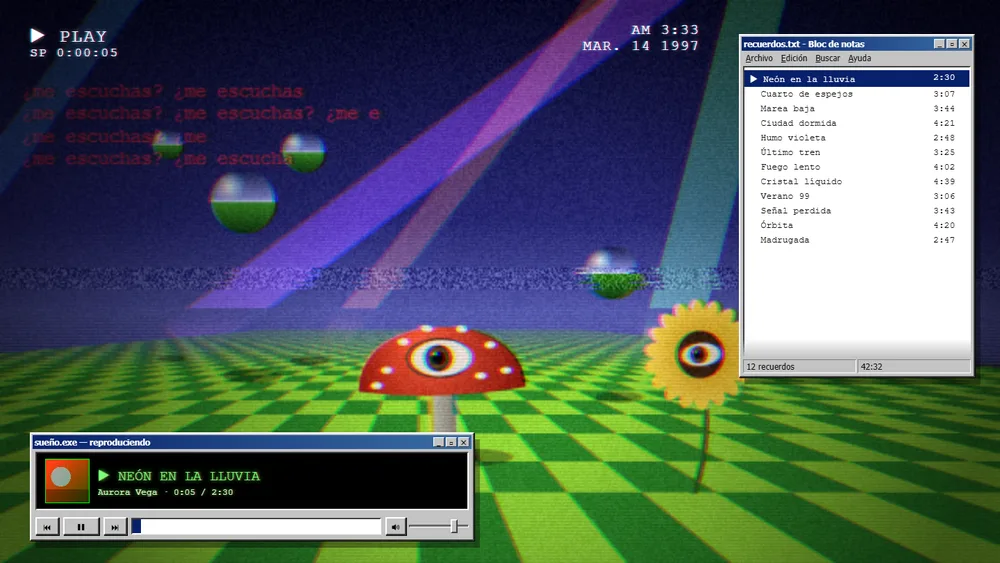
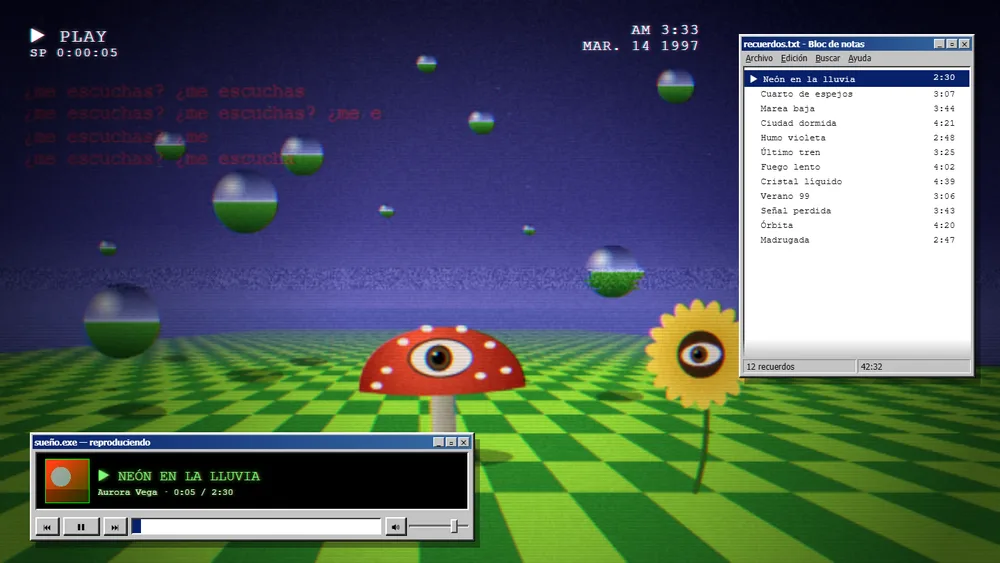
Dreamcore: mas esferas de cromo, estrellas y resplandor en vez de los haces de luz, VHS mas suave por defecto

diff --git a/web/dreamcore.html b/web/dreamcore.html
@@ -133,23 +133,25 @@ function esfera(x, y, r) {   // esfera de cromo que refleja cielo y pasto
   const b = g.createRadialGradient(x - r * .4, y - r * .45, 0, x - r * .4, y - r * .45, r * .5); b.addColorStop(0, "rgba(255,255,255,.9)"); b.addColorStop(1, "rgba(255,255,255,0)"); g.fillStyle = b; g.fillRect(x - r, y - r, r * 2, r * 2);
   g.restore();
 }
-const DESTELLOS = Array.from({ length: 4 }, (_, i) => ({ x0: [980, 900, 1100, 200][i], c: ["rgba(170,70,255,.55)", "rgba(255,120,40,.4)", "rgba(90,255,90,.5)", "rgba(70,200,255,.35)"][i], w: [70, 40, 80, 50][i], f: i * 1.7 }));
+const ESTRELLAS = Array.from({ length: 70 }, () => ({ x: rnd() * 1440, y: rnd() * HOR * .85, f: rnd() * 6, r: .8 + rnd() * 1.6 }));
+// esferas de cromo [x, y, radio, fase]: de las chicas y lejanas a las grandes y cercanas
+const ESFERAS = [[560, 300, 10, 4], [760, 330, 8, 5.2], [150, 360, 12, .7], [620, 90, 14, 2.6], [250, 210, 22, 2.1], [700, 170, 18, 3.9], [430, 230, 30, 1.3], [960, 130, 26, .2], [900, 380, 38, 3.4], [330, 300, 46, 0], [180, 450, 54, 4.6]];
 
 function escena(t, bajo) {
   g.save(); g.scale(S, S);
   const cielo = g.createLinearGradient(0, 0, 0, HOR); cielo.addColorStop(0, "#0a0b2e"); cielo.addColorStop(.7, "#2a2a7a"); cielo.addColorStop(1, "#5b5fb8");
   g.fillStyle = cielo; g.fillRect(0, 0, 1440, HOR);
-  // haces de luz de colores que barren el cielo
-  g.globalCompositeOperation = "lighter";
-  for (const d of DESTELLOS) { const a = Math.sin(t * .25 + d.f) * .35; g.save(); g.translate(d.x0, -40); g.rotate(.6 + a); g.fillStyle = d.c; g.globalAlpha = .55 + bajo * .45; g.fillRect(-d.w / 2, 0, d.w, 900); g.restore(); }
-  g.globalCompositeOperation = "source-over"; g.globalAlpha = 1;
+  // estrellas que titilan y un resplandor suave en el horizonte (en vez de los haces de luz)
+  for (const e of ESTRELLAS) { const a = .25 + .5 * Math.max(0, Math.sin(t * 1.2 + e.f)); g.fillStyle = `rgba(220,225,255,${a})`; g.fillRect(e.x, e.y, e.r, e.r); }
+  const res = g.createRadialGradient(620, HOR, 0, 620, HOR, 700); res.addColorStop(0, `rgba(190,170,255,${.22 + bajo * .1})`); res.addColorStop(1, "rgba(190,170,255,0)");
+  g.fillStyle = res; g.fillRect(0, 0, 1440, HOR);
   // suelo de damero que avanza hacia ti
   const Y = (z) => HOR + (810 - HOR) / z, X = (c, z) => 1440 * .42 + c * 150 / z, corre = (t * .5) % .8;
   for (let i = 40; i >= 0; i--) { const z0 = Math.max(1, 1 + i * .4 - corre), z1 = z0 + .4; if (z1 <= 1) continue;
     for (let c = -26; c < 26; c++) { g.fillStyle = (c + i) % 2 ? "#9be23a" : "#2f8f2a"; g.beginPath(); g.moveTo(X(c, z0), Y(z0)); g.lineTo(X(c + 1, z0), Y(z0)); g.lineTo(X(c + 1, z1), Y(z1)); g.lineTo(X(c, z1), Y(z1)); g.fill(); } }
   const bruma = g.createLinearGradient(0, HOR - 10, 0, HOR + 80); bruma.addColorStop(0, "rgba(91,95,184,1)"); bruma.addColorStop(1, "rgba(91,95,184,0)"); g.fillStyle = bruma; g.fillRect(0, HOR - 10, 1440, 90);
   // esferas que flotan
-  [[330, 300, 46, 0], [430, 230, 30, 1.3], [250, 210, 22, 2.1], [900, 380, 38, 3.4]].forEach(([x, y, r, f]) => esfera(x + Math.sin(t * .3 + f) * 20, y + Math.sin(t * .8 + f) * 14, r * (1 + bajo * .06)));
+  ESFERAS.forEach(([x, y, r, f]) => esfera(x + Math.sin(t * .3 + f) * r * .5, y + Math.sin(t * .8 + f) * r * .3, r * (1 + bajo * .05)));
   // hongo con ojo
   { const x = 640, y = 560, b = Math.sin(t * .9) * .03; g.save(); g.translate(x, y + 100); g.rotate(b); g.translate(-x, -y - 100);
     g.fillStyle = "rgba(0,0,0,.35)"; g.beginPath(); g.ellipse(x + 10, y + 100, 90, 14, 0, 0, 7); g.fill();
@@ -166,7 +168,7 @@ function escena(t, bajo) {
       g.fillStyle = p; g.beginPath(); g.ellipse(0, -50, 13, 30, 0, 0, 7); g.fill(); g.restore(); }
     g.fillStyle = "#3a2410"; g.beginPath(); g.arc(0, 0, 34, 0, 7); g.fill(); ojo(0, 0, 30, t, 2.2); g.restore(); }
   // texto rojo que va y viene
-  if (Math.sin(t * .4) > -.3) { g.font = "bold 26px 'Courier New', monospace"; g.fillStyle = `rgba(255,40,40,${.6 + Math.random() * .3})`;
+  if (Math.sin(t * .4) > -.3) { g.font = "bold 26px 'Courier New', monospace"; g.fillStyle = `rgba(255,40,40,${.4 + Math.random() * .2})`;
     for (let i = 0; i < 4; i++) g.fillText("¿me escuchas? ¿me escuchas? ¿me escu...".slice(0, 18 + ((t * 6 + i * 7) % 22)), 36, 140 + i * 32); }
   g.restore();
 }
@@ -185,7 +187,7 @@ function vhs(t, bajo) {
   const img = g.getImageData(0, 0, ANCHO, ALTO), d = img.data, out = new Uint8ClampedArray(d.length);
   const corr = Math.round((1 + bajo * 3) * SUCIO * 2), banda = (t * 40) % (ALTO + 60) - 30, ruido = 40 * SUCIO;
   for (let y = 0; y < ALTO; y++) {
-    const enBanda = y > banda && y < banda + 14, salto = enBanda ? Math.round((Math.random() - .5) * 24 * SUCIO) : (golpe > 0 && (y >> 4) % 3 === 0 ? Math.round(golpe * 30) : 0);
+    const enBanda = y > banda && y < banda + 14, salto = enBanda ? Math.round((Math.random() - .5) * 24 * SUCIO) : (golpe > 0 && (y >> 4) % 3 === 0 ? Math.round(golpe * 18) : 0);
     const oscuro = y % 2 ? .9 : 1;
     for (let x = 0; x < ANCHO; x++) {
       const i = (y * ANCHO + x) * 4, xr = Math.min(ANCHO - 1, Math.max(0, x + corr + salto)), xg = Math.min(ANCHO - 1, Math.max(0, x + salto)), xb = Math.min(ANCHO - 1, Math.max(0, x - corr + salto));
@@ -199,7 +201,7 @@ function vhs(t, bajo) {
 let suave = 0;
 R.cadaCuadro((t) => {
   const bajo = R.energia(R.espectro(), 1, 8); suave += (bajo - suave) * .25;
-  if (bajo > .85 && golpe <= 0 && Math.random() < .3) golpe = 1;   // a veces, con un golpe fuerte, la imagen salta
+  if (bajo > .9 && golpe <= 0 && Math.random() < .15) golpe = 1;   // a veces, con un golpe fuerte, la imagen salta
   golpe = Math.max(0, golpe - .12);
   raiz.setProperty("--p", (R.progreso() * 100).toFixed(2) + "%");
   const s = Math.floor(R.tiempoActual()); $("osd2").textContent = `SP ${Math.floor(s / 3600)}:${String(Math.floor(s / 60) % 60).padStart(2, "0")}:${String(s % 60).padStart(2, "0")}`;

diff --git a/web/propiedades.js b/web/propiedades.js
@@ -17,7 +17,7 @@ const Props = (() => {
     dosmil: [{ id: "tunel", nombre: "Brillo de la visualización de fondo", min: 20, max: 130, def: 70, unidad: " %" },
       { id: "cambio", nombre: "Cambiar de visualización", min: 0, max: 3, def: 1, etiquetas: ["cada 20 s", "cada 45 s", "cada 90 s", "solo al cambiar de canción"] }],
     ambiente: [{ id: "desenfoque", nombre: "Desenfoque del fondo", min: 10, max: 140, def: 70, unidad: " px" }],
-    dreamcore: [{ id: "vhs", nombre: "Efecto VHS (grano, colores corridos, saltos)", min: 0, max: 100, def: 60, unidad: " %" }],
+    dreamcore: [{ id: "vhs", nombre: "Efecto VHS (grano, colores corridos, saltos)", min: 0, max: 100, def: 35, unidad: " %" }],
     pixel: [{ id: "pixel", nombre: "Tamaño de los píxeles", min: 3, max: 9, def: 5, unidad: " px" }],
   };
   const api = {
